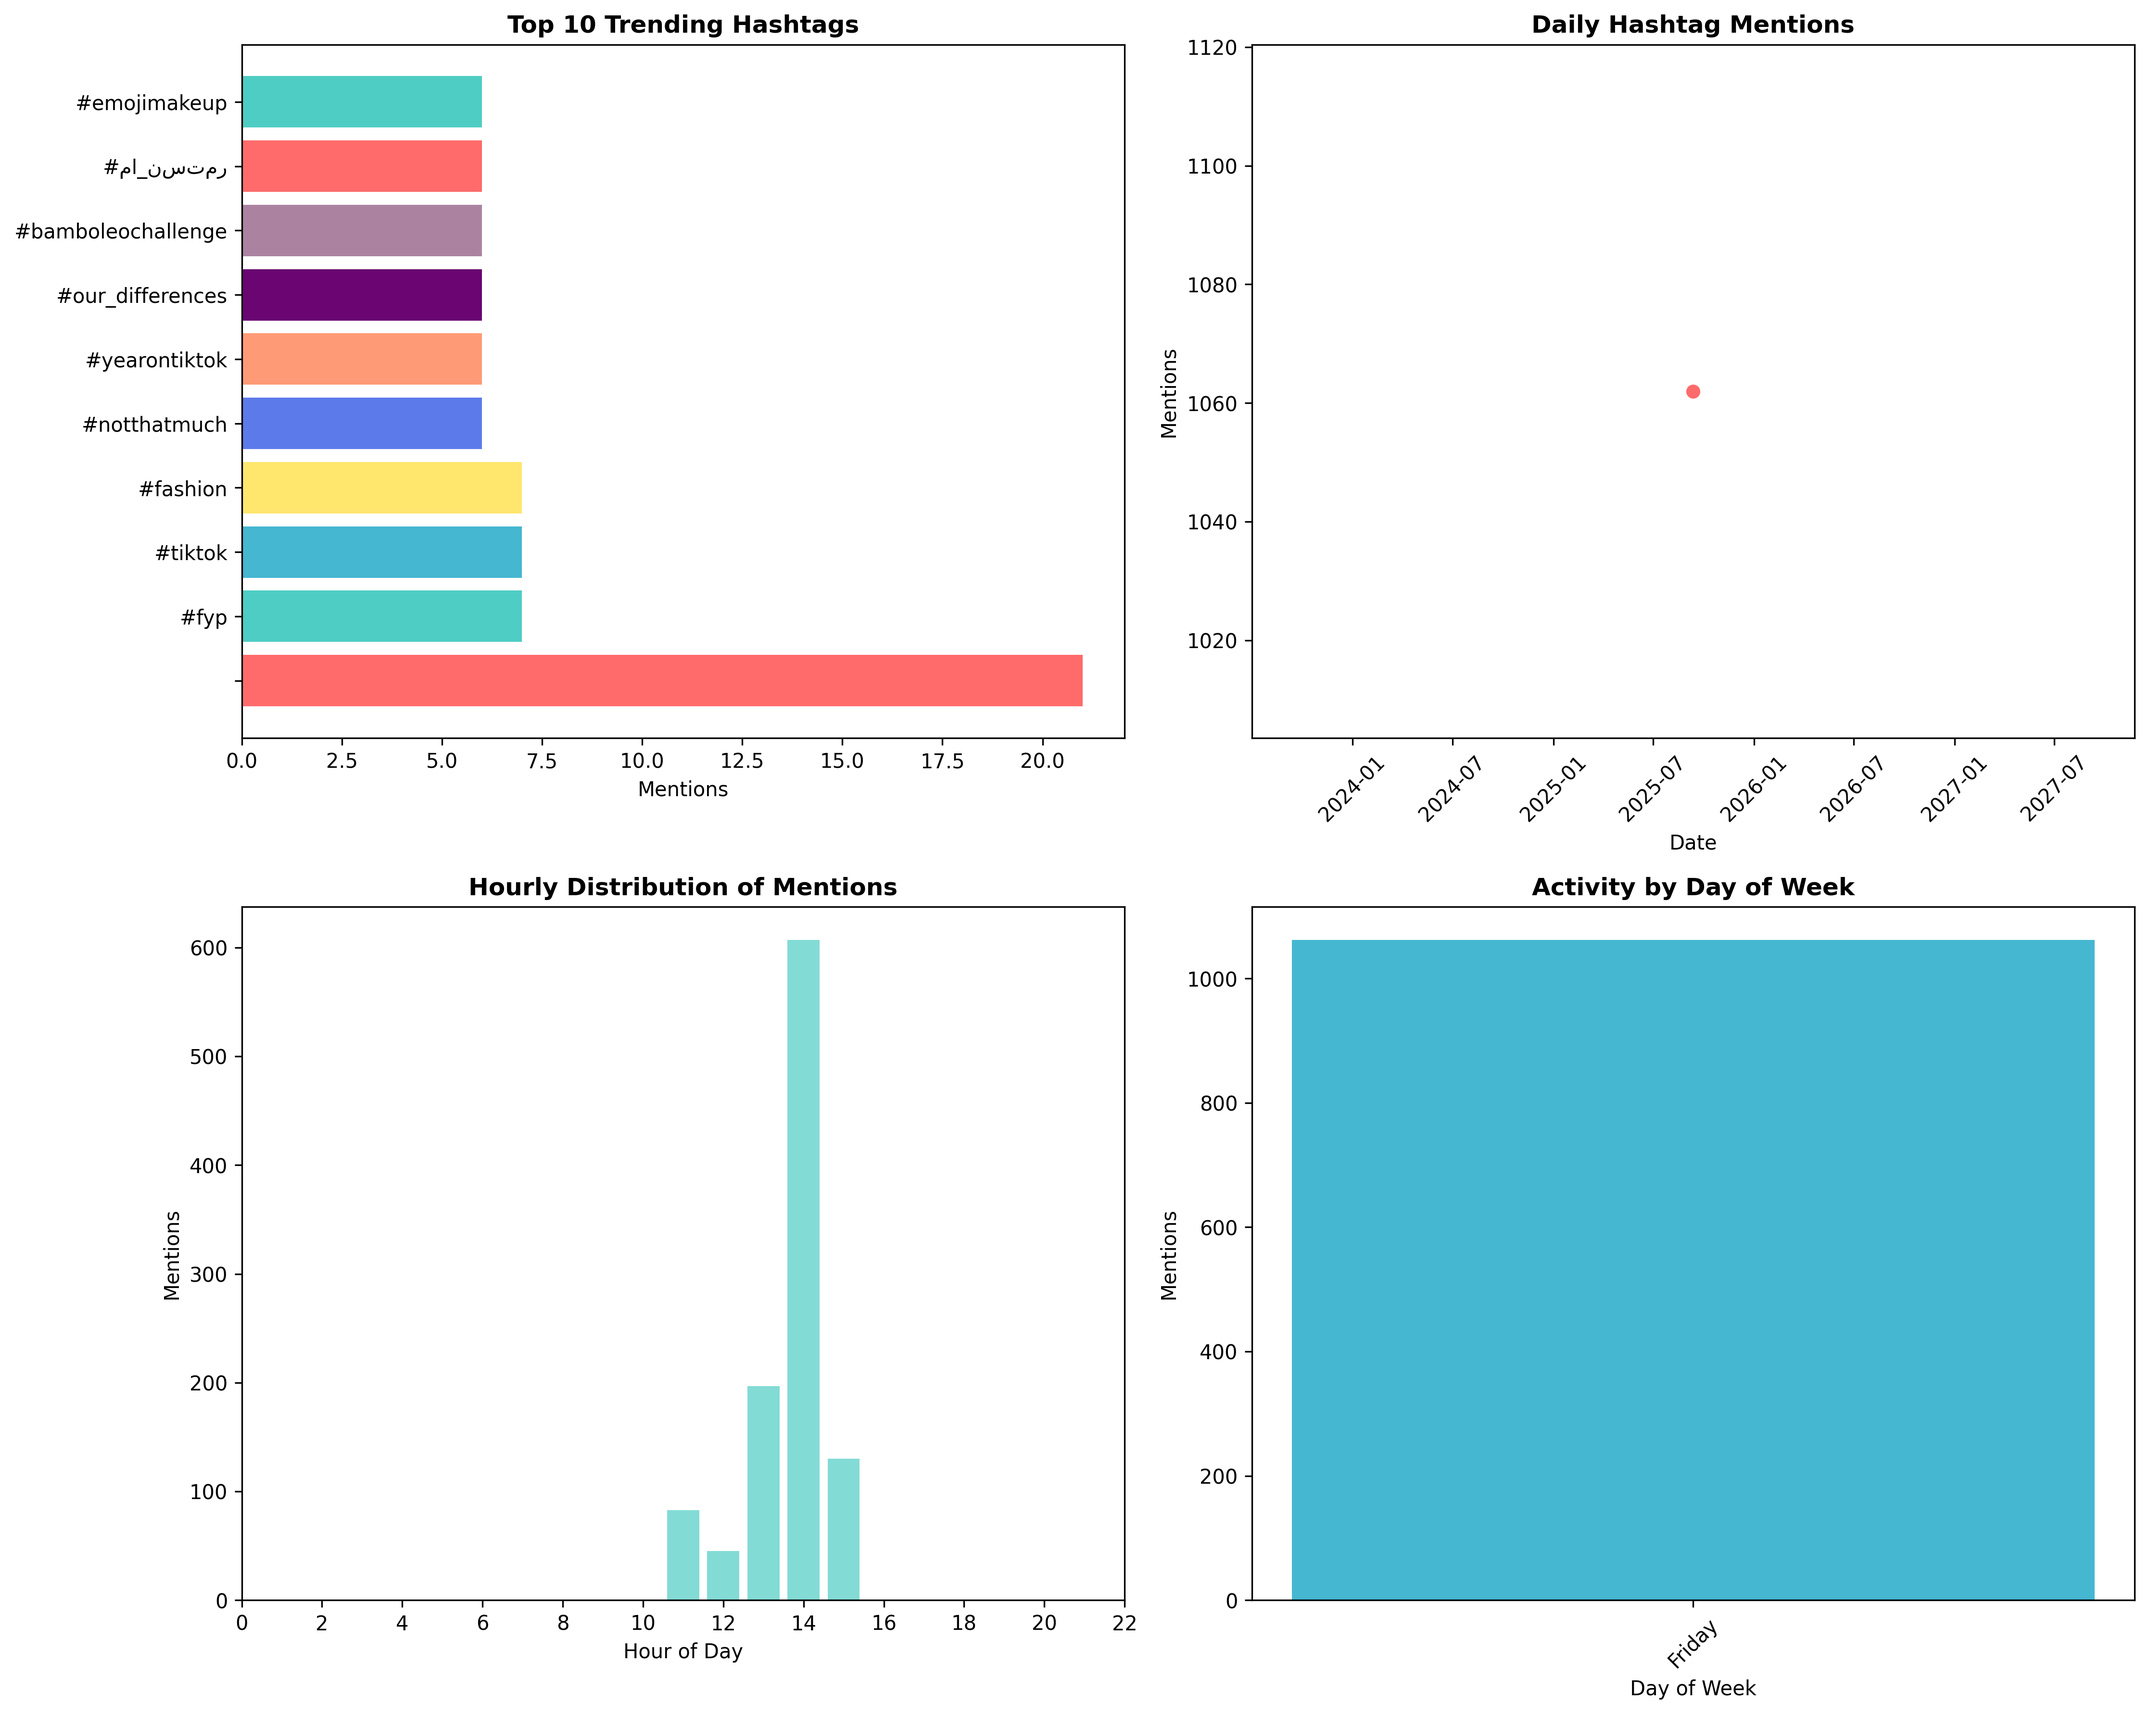
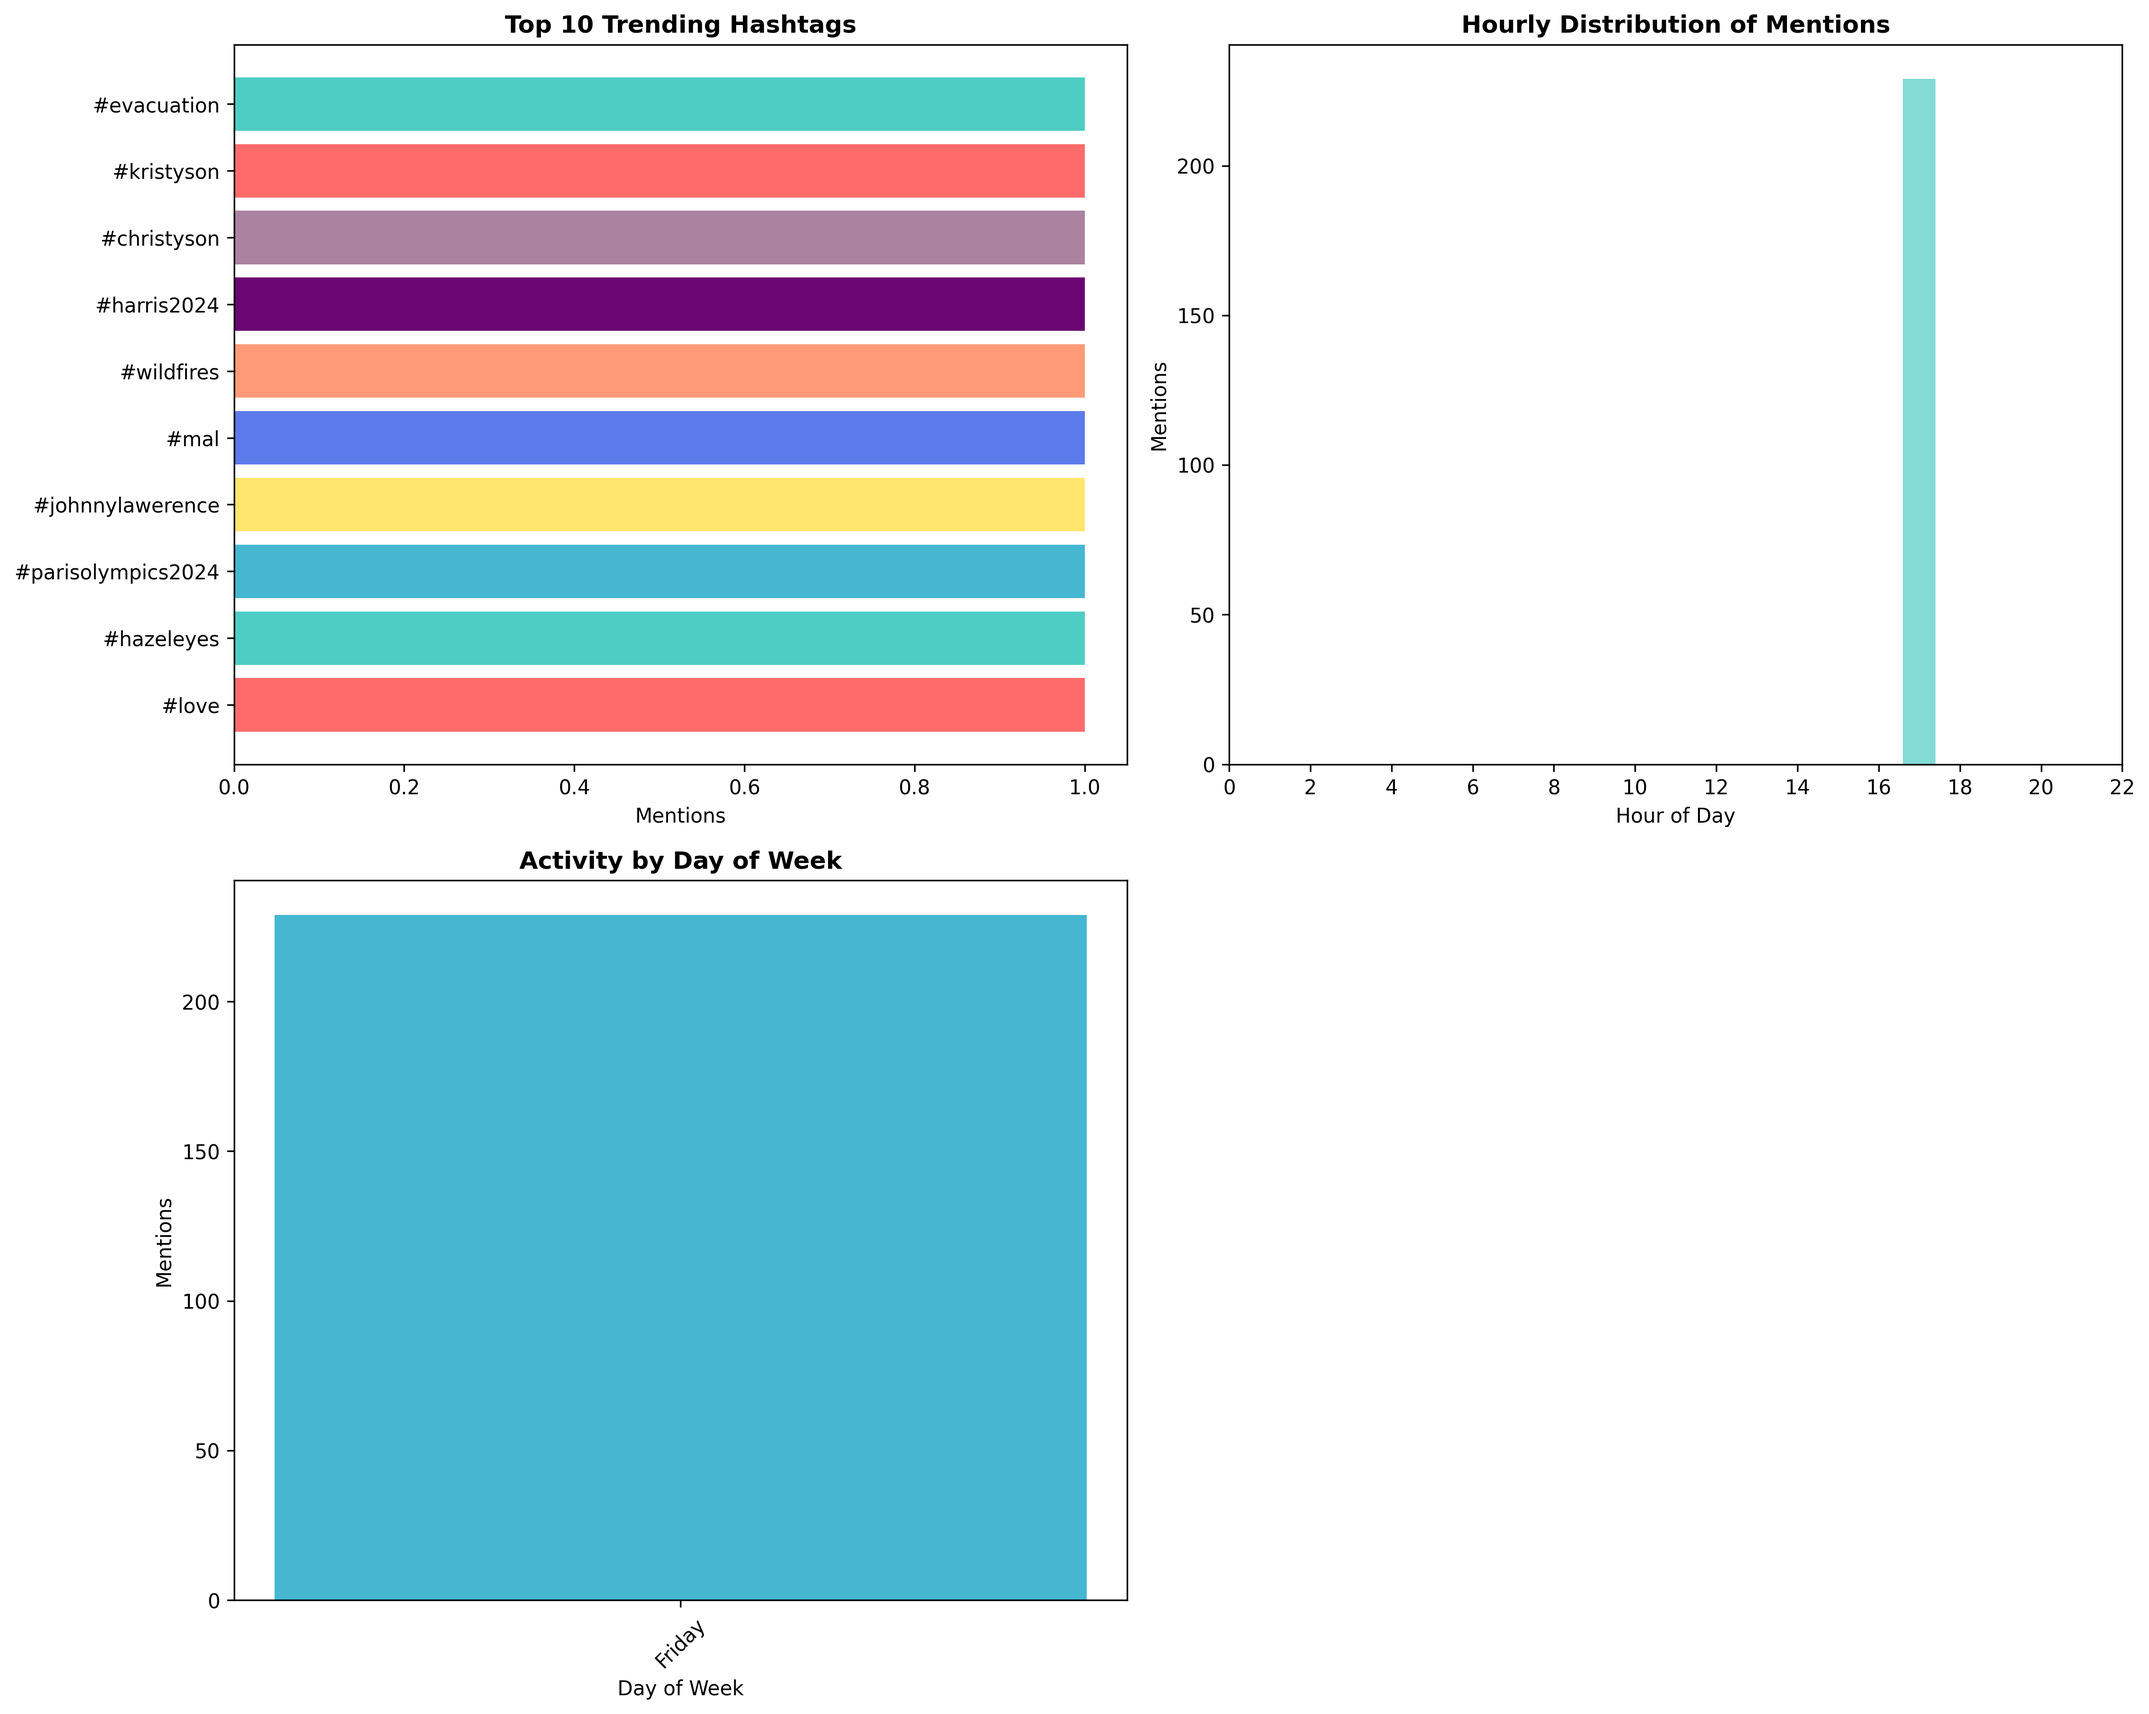
Resolve merge conflicts

diff --git a/reports/daily_report.html b/reports/daily_report.html
@@ -3,7 +3,7 @@
         <html>
         <head>
             <meta charset="UTF-8">
-            <title>TikTok Trends Report - 2025-09-14</title>
+            <title>TikTok Trends Report - 2025-09-15</title>
             <style>
                 body { font-family: Arial, sans-serif; margin: 40px; background: #f5f5f5; }
                 .container { max-width: 1200px; margin: 0 auto; background: white; padding: 30px; border-radius: 15px; box-shadow: 0 5px 15px rgba(0,0,0,0.1); }
@@ -12,70 +12,33 @@
                 .stat-card { background: #f8f9fa; padding: 20px; border-radius: 10px; text-align: center; border-left: 4px solid #ff0055; }
                 .stat-number { font-size: 2em; font-weight: bold; color: #ff0055; }
                 .section { margin: 30px 0; padding: 20px; border: 1px solid #e9ecef; border-radius: 10px; }
-                img { max-width: 100%; height: auto; border-radius: 10px; box-shadow: 0 3px 10px rgba(0,0,0,0.1); }
-                ul { line-height: 1.8; }
-                li { margin: 10px 0; }
+                img { max-width: 100%; height: auto; display: block; margin: 0 auto; }
             </style>
         </head>
         <body>
             <div class="container">
                 <div class="header">
-                    <h1>&#128202; TikTok Trends Report</h1>
-                    <p>Generated on: 2025-09-14</p>
+                    <h1>TikTok Trends Report</h1>
+                    <p>Date: 2025-09-15</p>
                 </div>
-                
                 <div class="stats">
                     <div class="stat-card">
-                        <div class="stat-number">1,062</div>
-                        <h3>Total Mentions</h3>
+                        <div class="stat-number">229</div>
+                        <div>Total Mentions</div>
                     </div>
                     <div class="stat-card">
-                        <div class="stat-number">615</div>
-                        <h3>Unique Hashtags</h3>
-                    </div>
-                    <div class="stat-card">
-                        <div class="stat-number">21</div>
-                        <h3>Top Hashtag: </h3>
+                        <div class="stat-number">229</div>
+                        <div>Unique Hashtags</div>
                     </div>
                     <div class="stat-card">
                         <div class="stat-number">1</div>
-                        <h3>Days of Data</h3>
+                        <div>Top Hashtag: #love</div>
                     </div>
                 </div>
-                
                 <div class="section">
-                    <h2>&#128247; Trending Dashboard</h2>
+                    <h2>Trend Visualizations</h2>
                     <img src="trends_dashboard.png" alt="Trends Dashboard">
-                </div>
-                
-                <div class="section">
-                    <h2>&#128293; Top Hashtags Trend</h2>
-                    <img src="top_hashtags_trend.png" alt="Top Hashtags Trend">
-                </div>
-                
-                <div class="section">
-                    <h2>&#128203; Generated Report Files</h2>
-                    <ul>
-                        <li><strong>trends_dashboard.png</strong> - Comprehensive visual dashboard</li>
-                        <li><strong>top_hashtags_trend.png</strong> - Top hashtags growth chart</li>
-                        <li><strong>top_hashtags.csv</strong> - Top 20 trending hashtags</li>
-                        <li><strong>recent_trends.csv</strong> - Trends from last 24 hours</li>
-                        <li><strong>emerging_trends.csv</strong> - New trending hashtags</li>
-                        <li><strong>daily_activity.csv</strong> - Daily mention counts</li>
-                        <li><strong>hourly_activity.csv</strong> - Hourly distribution</li>
-                        <li><strong>weekly_comparison.csv</strong> - Week-over-week comparison</li>
-                        <li><strong>summary.txt</strong> - Executive summary report</li>
-                    </ul>
-                </div>
-                
-                <div class="section">
-                    <h2>&#128161; How to Use This Data</h2>
-                    <ul>
-                        <li>Schedule content around top trending hashtags</li>
-                        <li>Post during peak activity hours shown in hourly analysis</li>
-                        <li>Monitor emerging trends for early adoption opportunities</li>
-                        <li>Compare weekly performance to track growth</li>
-                    </ul>
+                    <img src="top_hashtags_trend.png" alt="Top Hashtags Daily Trend">
                 </div>
             </div>
         </body>
